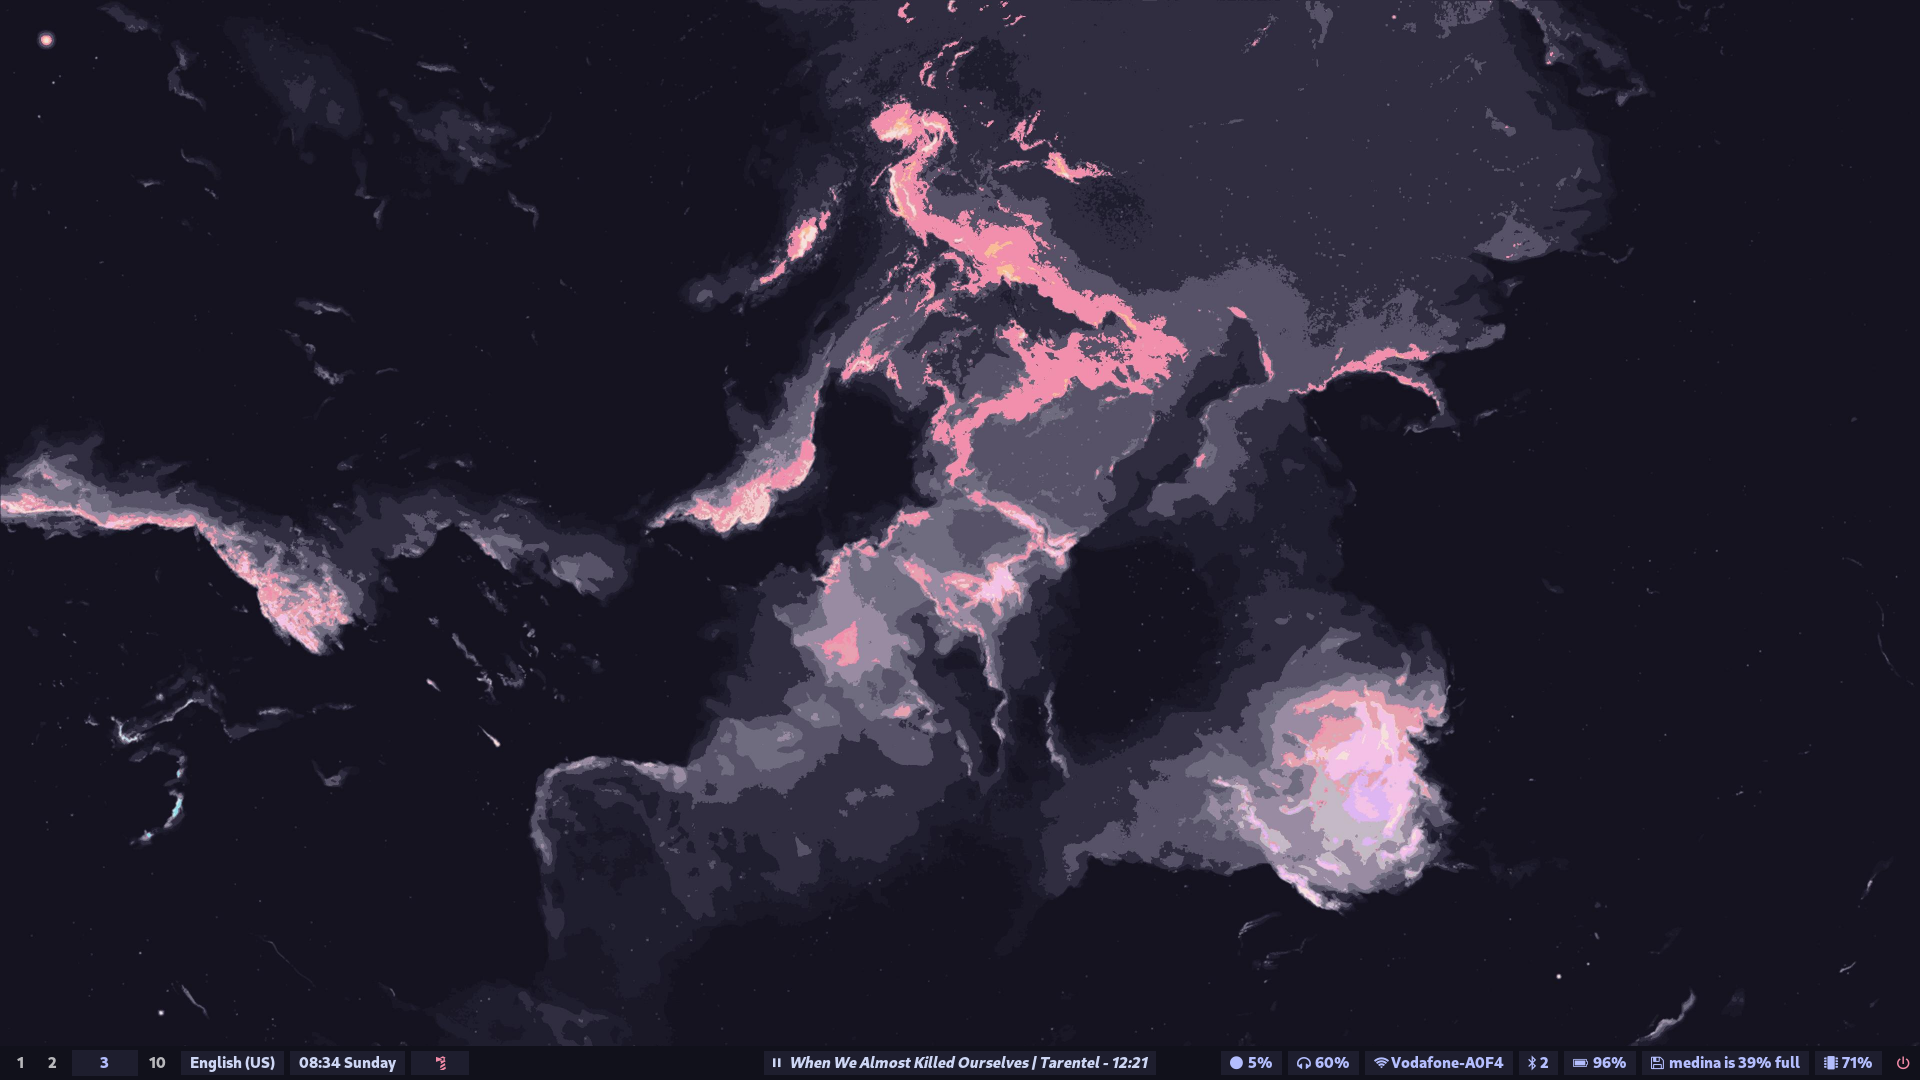
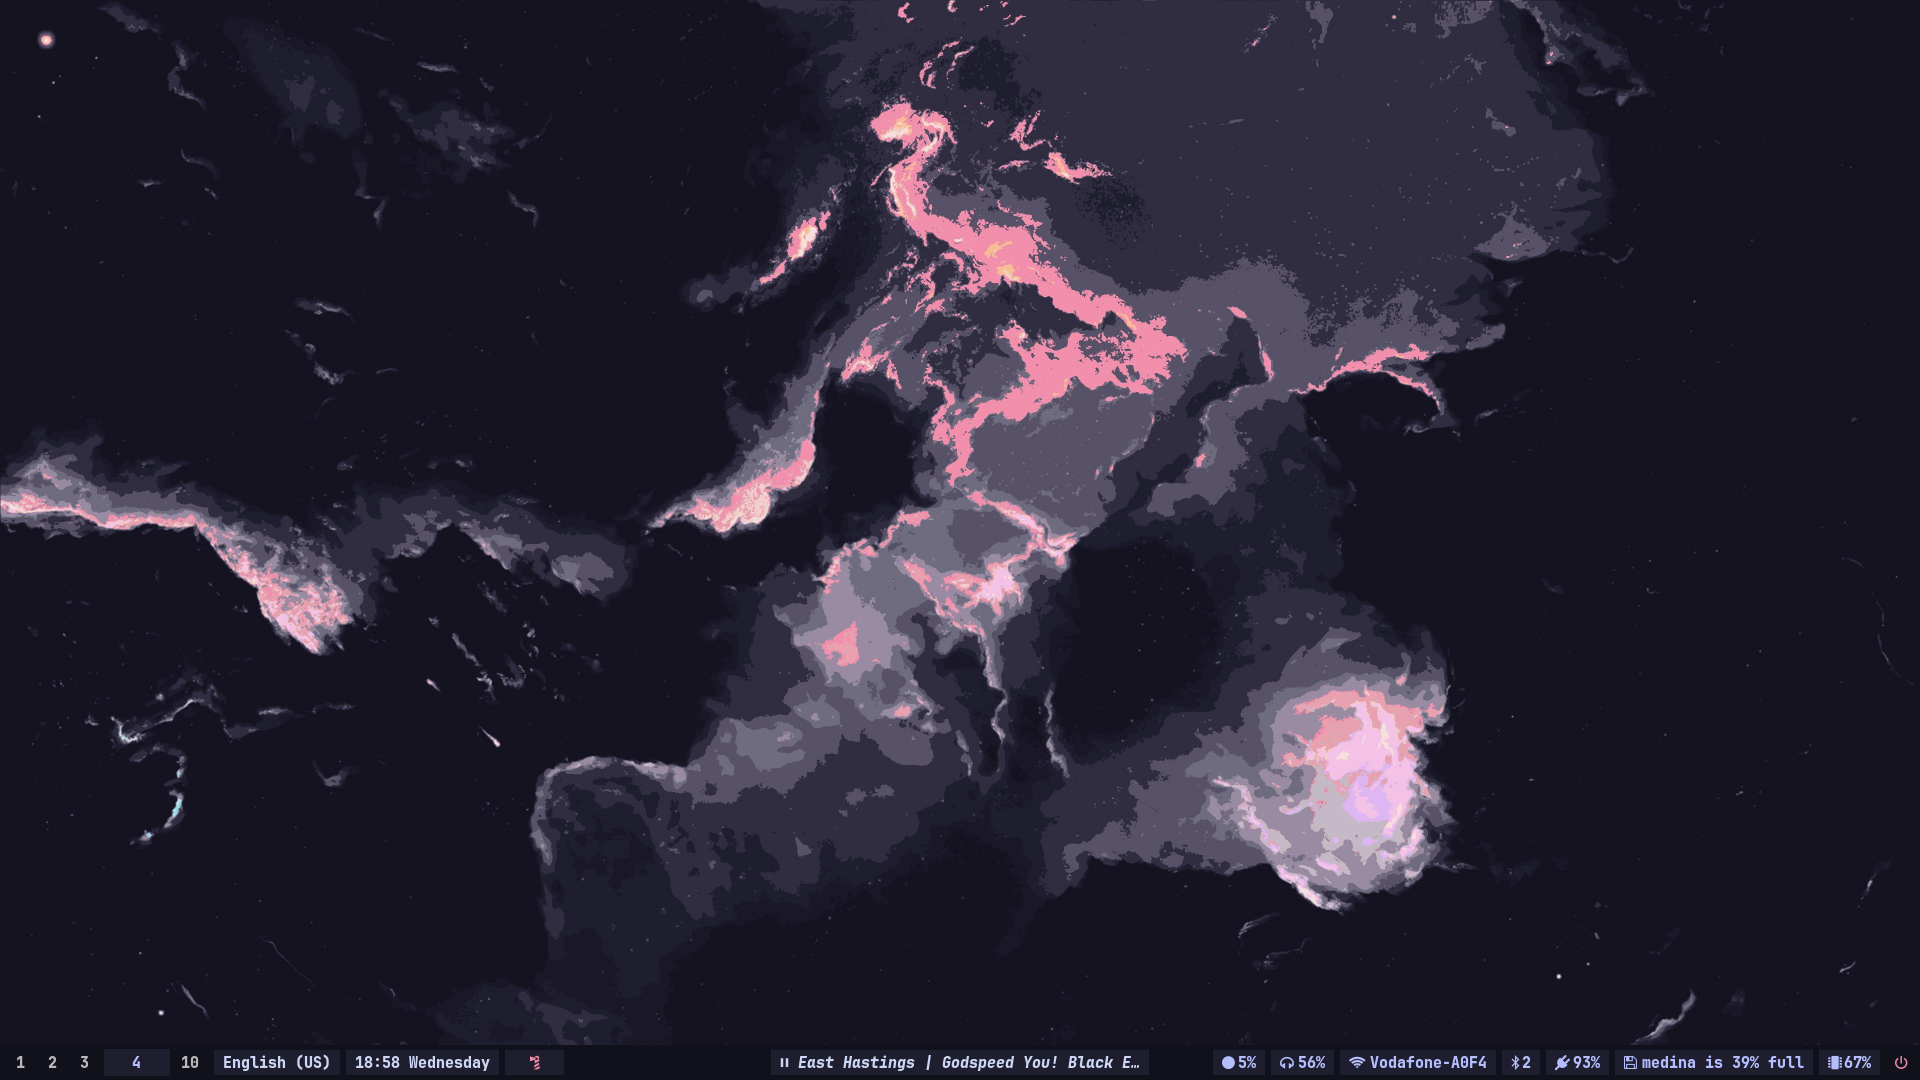
jet black scream

Changed region(s): [[0.625, 0.9778, 1.0, 1.0], [0.0625, 0.9778, 0.2812, 1.0], [0.4062, 0.9778, 0.5938, 1.0]]

diff --git a/.config/waybar/style.css b/.config/waybar/style.css
@@ -1,7 +1,7 @@
 @import "./cat.css";
 
 * {
-  font-family: Cantarell;
+  font-family: JetBrainsMono Nerd Font;
   font-weight: bolder;
   font-size: 15px;
   /* border-radius: 10px; */

diff --git a/readme.md b/readme.md
@@ -5,13 +5,14 @@ my hyprland dotfiles on arch linux ^^
 ![1](./.github/1.png)
 ![2](./.github/2.png)
 ![3](./.github/3.png)
+![4](./.github/4.png)
 
 ## info
 
 - **os**: arch linux
 - **compositor**: hyprland
 - **terminal**: kitty
-- **font**: Maple Mono NF + Cantarell
+- **font**: jetbrains mono (nerd font)
 - **editor**: neovim
 - **browser**: firefox + betterfox
 - **app launcher**: rofi
